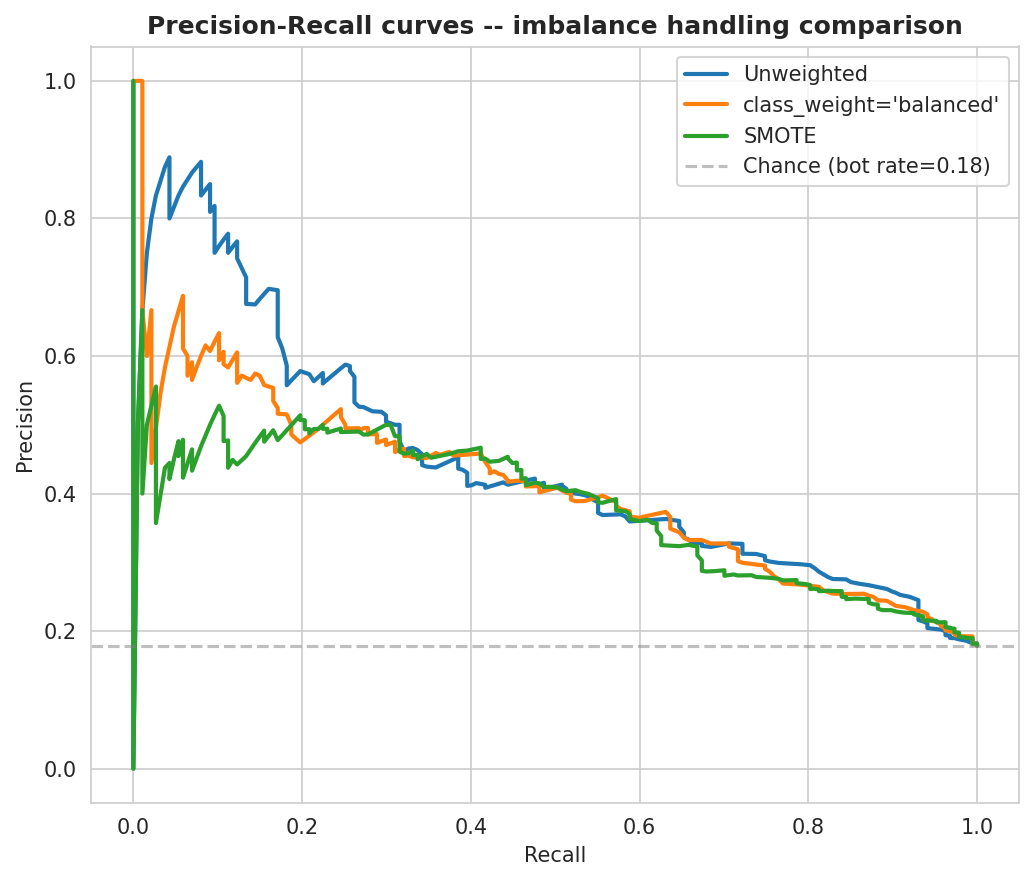
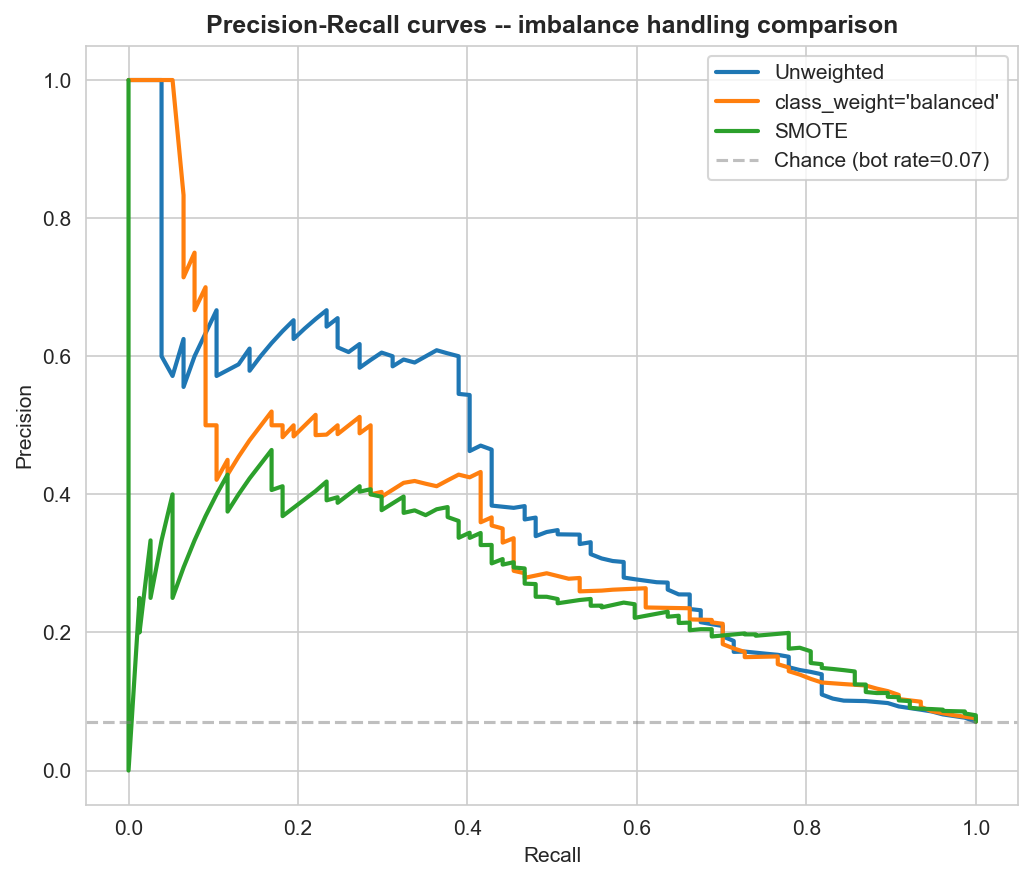
run imbalance

diff --git a/code/run_imbalance.py b/code/run_imbalance.py
@@ -46,7 +46,7 @@ RNG = 42
 np.random.seed(RNG)
 N_SPLITS = 5
 
-XLSX_PATH = sys.argv[1] if len(sys.argv) > 1 else "1000user_sheet.xlsx"
+XLSX_PATH = sys.argv[1] if len(sys.argv) > 1 else "../datasets/dataset1.xlsx"
 ROOT = os.path.dirname(os.path.dirname(os.path.abspath(__file__)))
 OUT = os.path.join(ROOT, "results_legacy_d1")
 os.makedirs(OUT, exist_ok=True)
